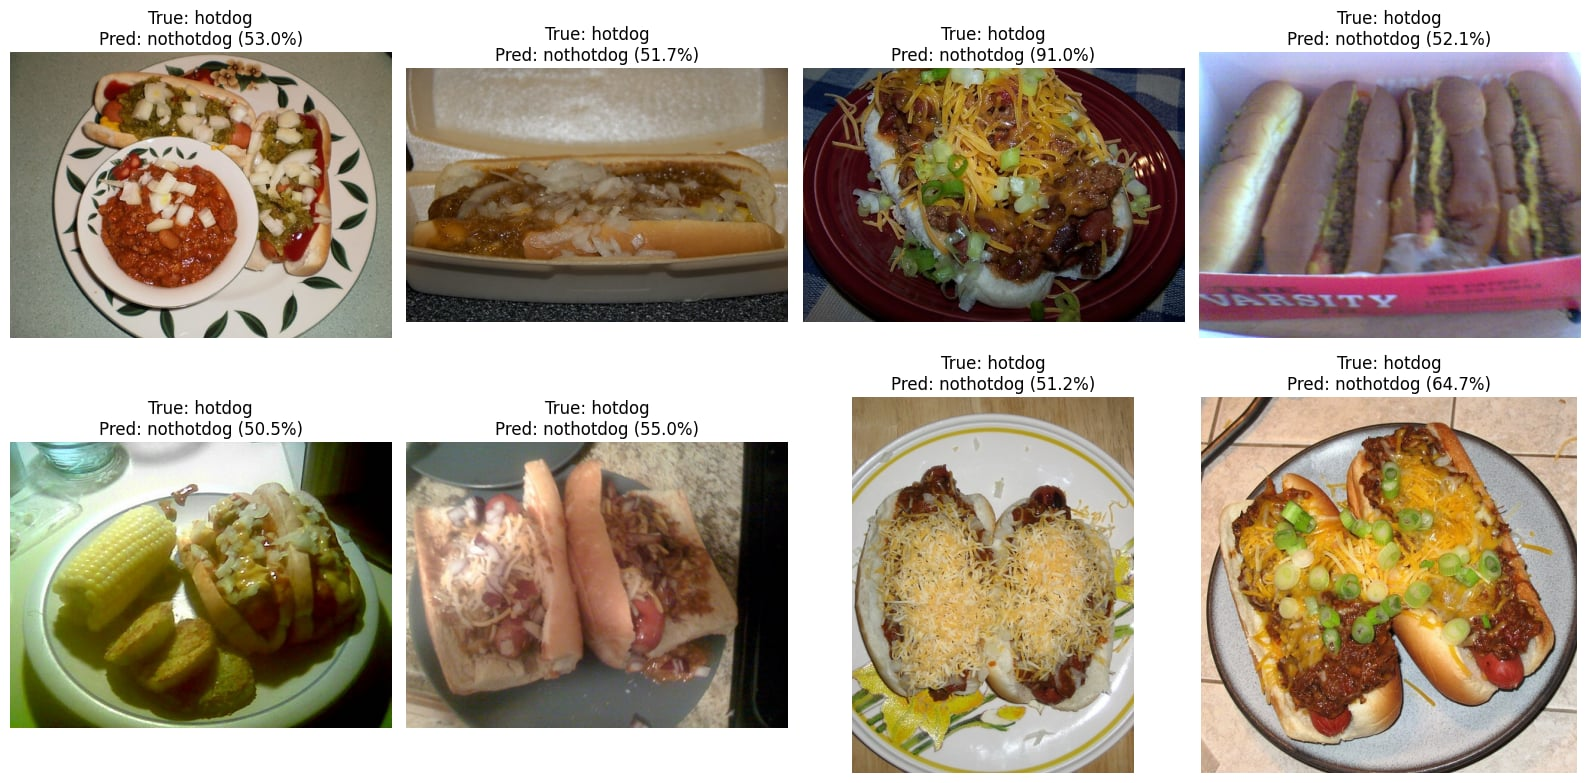
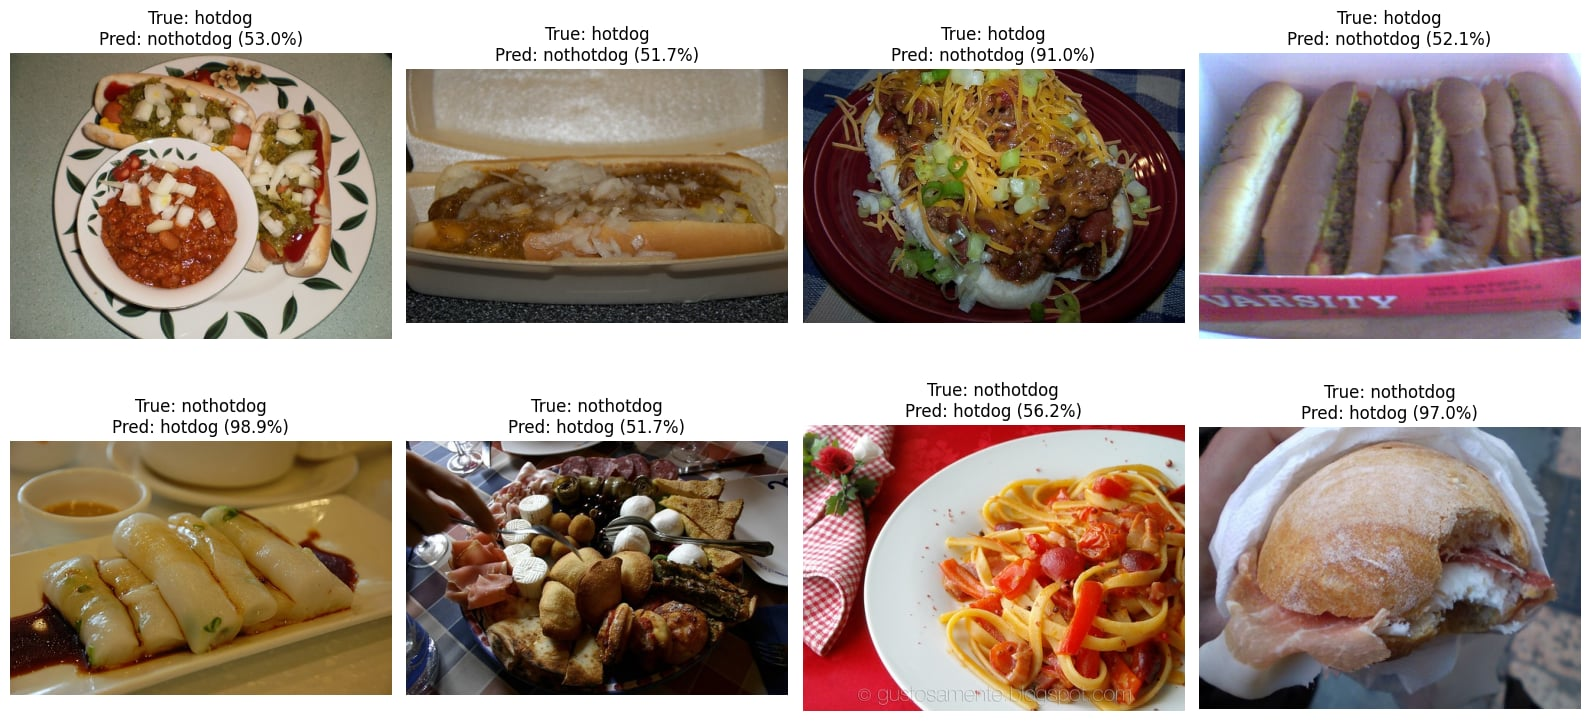
Replace misclassified-images analysis with a balanced sample
The previous 8 examples were all false negatives, an artifact of
taking the first 8 misclassified images in file order (hotdog class
listed first). Now shows 4 false negatives and 4 false positives.
False negatives are dressed hotdogs (chili, cheese) that hide the
plain hotdog shape; false positives are other elongated,
bread-wrapped foods (spring rolls, a sandwich) confidently mistaken
for hotdogs. Rewrites the analysis accordingly.

diff --git a/project1_IDLCV/Project_1_report.tex b/project1_IDLCV/Project_1_report.tex
@@ -116,11 +116,11 @@ Running the ResNet18 model over the full test set, 155 of 1862 images (8.3\%) ar
 \begin{figure}[h]
 \centering
 \includegraphics[width=\linewidth]{misclassified.jpg}
-\caption{Eight misclassified test images, all true \emph{hotdog} predicted as \emph{nothotdog}.}
+\caption{Four false negatives, true \emph{hotdog} predicted \emph{nothotdog} (top), and four false positives, true \emph{nothotdog} predicted \emph{hotdog} (bottom).}
 \label{fig:misclassified}
 \end{figure}
 
-The examples in Fig.~\ref{fig:misclassified} reveal a clear, one-sided pattern: every one of them is a true hotdog that the model calls \emph{nothotdog}, not the reverse. Almost all are heavily dressed hotdogs -- chili dogs, cheese dogs, dogs buried in onions or relish -- where toppings obscure the classic bun-and-sausage silhouette, so the image reads more like a bowl of chili or a plate of nachos. Confidence is mostly low (51--65\%, near a coin flip) except for one chili-cheese dog misclassified at 91\% confidence, where the sausage itself is barely visible under cheese and beans. This suggests the model leans heavily on the plain hotdog shape learned from ImageNet-style images and struggles once that shape is visually obscured, an obvious and interpretable failure mode.
+Fig.~\ref{fig:misclassified} shows both error directions. The false negatives (top row) are all heavily dressed hotdogs -- chili dogs, cheese dogs, a tray of hotdogs half-hidden in their buns -- where toppings obscure the plain bun-and-sausage silhouette; confidence is mostly low (51--53\%, near a coin flip), except one chili-cheese dog at 91\%, where the sausage is barely visible under cheese and beans. The false positives (bottom row) show the opposite failure: foods with an elongated, bread- or wrapper-enclosed shape are mistaken for hotdogs with very high confidence -- spring rolls at 98.9\% and a prosciutto sandwich at 97.0\% -- while a charcuterie platter (51.7\%) and a pasta dish (56.2\%) are much weaker, near-coin-flip errors with no obvious shape cue. Together this suggests the model relies heavily on the elongated hotdog silhouette: dressed hotdogs that hide this shape are missed, while other foods that happen to share it are confidently mistaken for hotdogs, an obvious and interpretable failure mode in both directions.
 
 \subsection{Saliency Maps and SmoothGrad}
 \label{sec:saliency-results}
@@ -136,7 +136,7 @@ Do the saliency maps (Fig.~\ref{fig:saliency}) make sense? Only partially: vanil
 
 \subsection{Limitations}
 
-Beyond the eight examples in Fig.~\ref{fig:misclassified}, we have not systematically checked whether the same "obscured shape" pattern holds across all 155 misclassified images, nor examined the false positives (nothotdog predicted as hotdog) separately.
+Beyond the eight examples in Fig.~\ref{fig:misclassified}, we have not systematically checked whether the same shape-based pattern holds across all 155 misclassified images.
 
 \section{Conclusion}
 \label{sec:conclusion}
